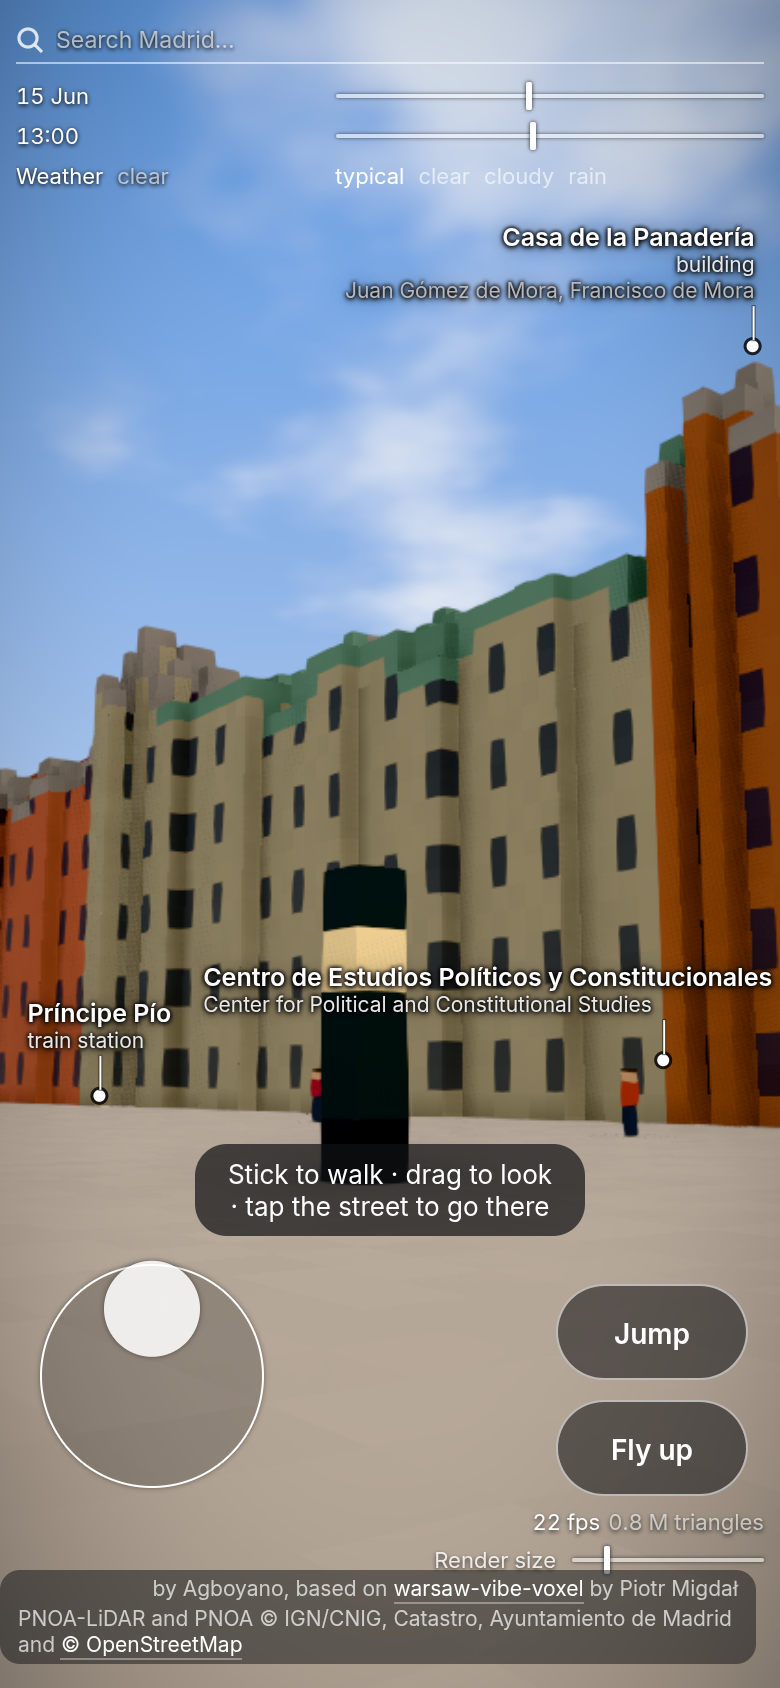
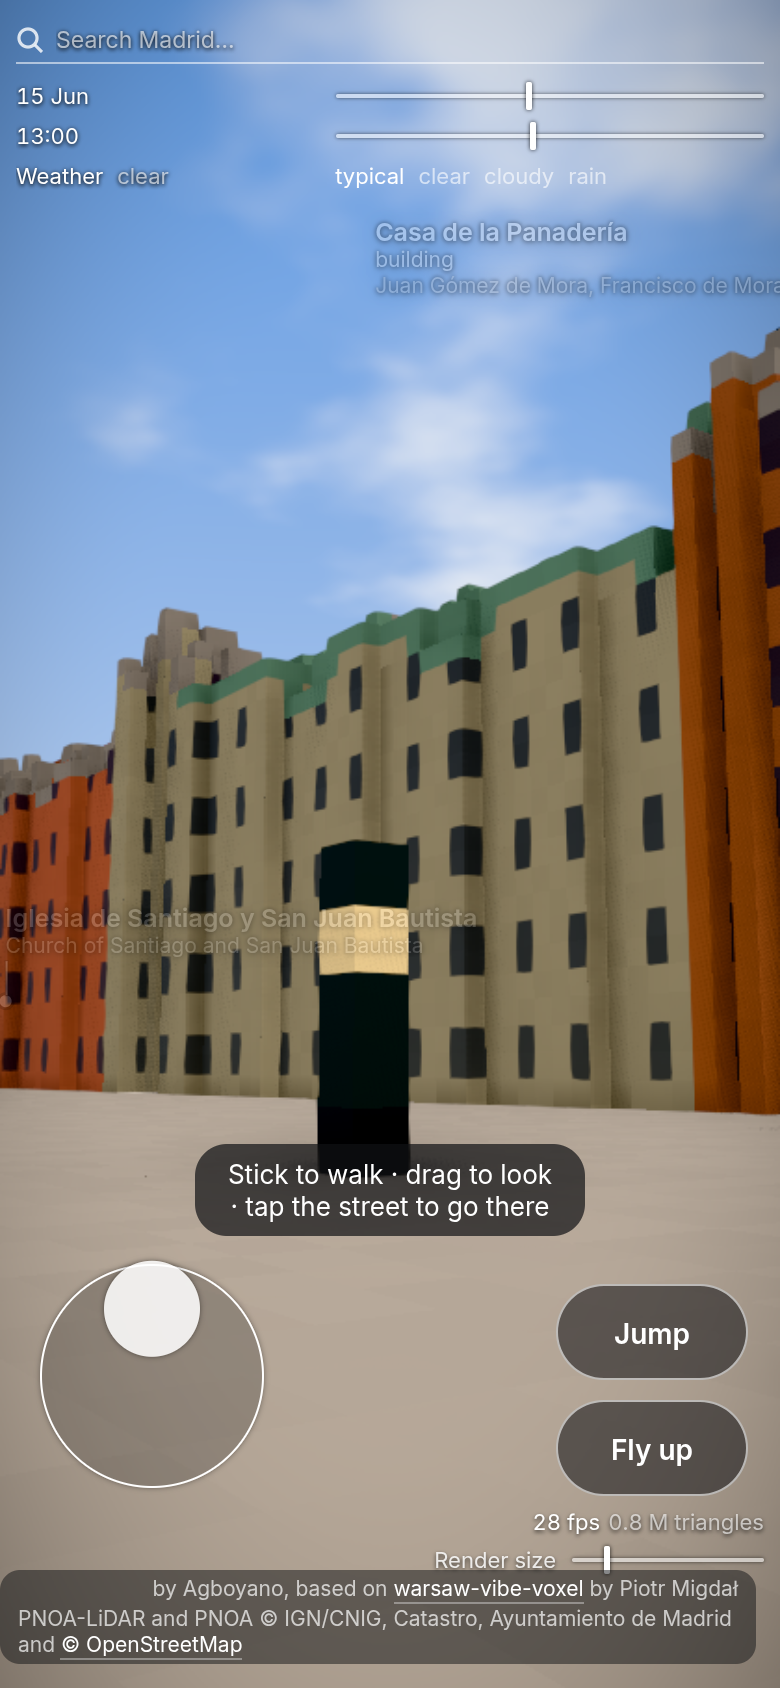
Read the touch stick from touch events, and put it at the bottom edge in landscape
The stick used pointer capture, which worked in emulated Chromium but
not on a real phone. Touch events keep their target wherever the
finger goes and behave alike on iOS and Android; the mouse still uses
pointer events for desktop testing. With the phone on its side the
stick sat mid-height; it now goes to the bottom edge.

diff --git a/web/src/nav/touch.ts b/web/src/nav/touch.ts
@@ -46,11 +46,13 @@ export class TouchControls {
     });
   }
 
-  // the knob follows the thumb within the ring; its offset over the radius is the stick, -1..1 each way
+  // the knob follows the thumb within the ring; its offset over the radius is the stick, -1..1 each way. Fingers come
+  // as touch events, which keep their target wherever the finger goes and behave alike on iOS and Android (pointer
+  // capture does not); the mouse, for testing on a desktop, as pointer events
   private bindStick(ring: HTMLElement) {
     const knob = ring.querySelector('i')!, stick = this.nav.input.stick;
     let id: number | null = null;
-    const at = (e: PointerEvent) => {
+    const at = (e: { clientX: number; clientY: number }) => {
       const r = ring.getBoundingClientRect(), R = r.width / 2;
       let x = (e.clientX - r.left - R) / R, y = (e.clientY - r.top - R) / R;
       const L = Math.hypot(x, y);
@@ -59,16 +61,27 @@ export class TouchControls {
       knob.style.transform = `translate(${x * R * 0.6}px, ${y * R * 0.6}px)`;
     };
     const end = () => { id = null; stick.x = stick.y = 0; knob.style.transform = ''; ring.classList.remove('on'); };
-    ring.addEventListener('pointerdown', (e) => {
+    const finger = (e: TouchEvent) => [...e.changedTouches].find((t) => t.identifier === id);
+    ring.addEventListener('touchstart', (e) => {
       e.preventDefault();
+      if (id !== null) return;
+      const t = e.changedTouches[0];
+      id = t.identifier;
+      ring.classList.add('on');
+      at(t);
+    }, { passive: false });
+    ring.addEventListener('touchmove', (e) => { e.preventDefault(); const t = finger(e); if (t) at(t); }, { passive: false });
+    ring.addEventListener('touchend', (e) => { if (finger(e)) end(); });
+    ring.addEventListener('touchcancel', (e) => { if (finger(e)) end(); });
+    ring.addEventListener('pointerdown', (e) => {
+      if (e.pointerType !== 'mouse') return;
       id = e.pointerId;
       ring.setPointerCapture(id);
       ring.classList.add('on');
       at(e);
     });
-    ring.addEventListener('pointermove', (e) => { if (e.pointerId === id) at(e); });
-    ring.addEventListener('pointerup', (e) => { if (e.pointerId === id) end(); });
-    ring.addEventListener('pointercancel', (e) => { if (e.pointerId === id) end(); });
+    ring.addEventListener('pointermove', (e) => { if (e.pointerType === 'mouse' && e.pointerId === id) at(e); });
+    ring.addEventListener('pointerup', (e) => { if (e.pointerType === 'mouse' && e.pointerId === id) end(); });
   }
 
   set(mode: Mode, ride: Ride | null) {

diff --git a/web/src/style.css b/web/src/style.css
@@ -134,6 +134,13 @@ html, body { margin: 0; height: 100%; overflow: hidden; touch-action: none; /* p
   background: rgba(16,17,20,.7); color: #fff; font: 13px Inter, system-ui, sans-serif; text-align: center; pointer-events: none; opacity: 0; transition: opacity .8s; }
 #touch-hint.on { opacity: 1; }
 .noui #touch, .noui #touch-hint, .loading #touch { display: none; }
+/* a phone on its side: the credits fit on one line, so the stick goes down to the edge, under the left thumb */
+@media (pointer: coarse) and (orientation: landscape) and (max-height: 500px) {
+  #touch .stick { left: 28px; bottom: 20px; }
+  #touch .btns { bottom: 56px; }
+  #touch-hint { bottom: 64px; }
+  .walking #card { left: 156px; bottom: 12px; }
+}
 /* top right, in the legend's style: frames per second, and the one knob, how much of the city is drawn in detail */
 #perf { position: fixed; right: 14px; top: 14px; z-index: 4; display: flex; flex-direction: column; align-items: flex-end; gap: 4px;
   font: 11px Inter, system-ui, sans-serif; font-variant-numeric: tabular-nums; color: rgba(255,255,255,.85); text-shadow: 0 1px 2px rgba(0,0,0,.7); }

diff --git a/NOTES.md b/NOTES.md
@@ -615,7 +615,7 @@ metres and converted**, unlike this code.
 
 - **One input, three sources** (`web/src/nav/input.ts`): `Input` turns the keys, the on-screen stick and a gamepad into axes from -1 to 1 (`move`, `strafe`, `turn`, `pitch`, `rise`) and one-shot presses. `Nav` reads only the axes, so the three sources mix (a key and the stick at once add up, clamped).
 - **Gamepad:** read once a frame with `navigator.getGamepads()`, preferring a pad in the `standard` mapping (axes 0-1 left stick, 2-3 right stick; buttons 0 A, 1 B, 4 LB, 5 RB, 6 LT, 7 RT). Dead zone 0.15, then a squared response. Browsers expose a pad only after one of its buttons is pressed, and some only in a secure context (HTTPS or `localhost`), so over plain HTTP on the local network a pad may not show.
-- **Touch** (`web/src/nav/touch.ts`, only when `(pointer: coarse)`): a stick bottom left on foot and when following, which captures its own finger so the other thumb still drags to look; buttons bottom right (**Walk here** in the air, **Jump**, **Fly up**). Their rectangles go to the labels so no pin sits on them. A one-line gesture hint shows once per mode and is remembered in `localStorage`.
+- **Touch** (`web/src/nav/touch.ts`, only when `(pointer: coarse)`): a stick bottom left on foot and when following (at the bottom edge with the phone on its side). It reads fingers as touch events, which keep their target wherever the finger goes, so the other thumb still drags to look: a first version with pointer capture worked in emulated Chromium but not on the user's phone.; buttons bottom right (**Walk here** in the air, **Jump**, **Fly up**). Their rectangles go to the labels so no pin sits on them. A one-line gesture hint shows once per mode and is remembered in `localStorage`.
 - **Testing:** Playwright with a phone context (`is_mobile`, `has_touch`, 390 × 844) drives the stick and the buttons with pointer events; a fake standard pad goes in with `add_init_script` (replace `navigator.getGamepads` with one that returns an object the test changes). `docs/img/controls-*.png` came from such a run.
 
 ### Viewer: shadows, lighting, camera, navigation, streaming, fog
